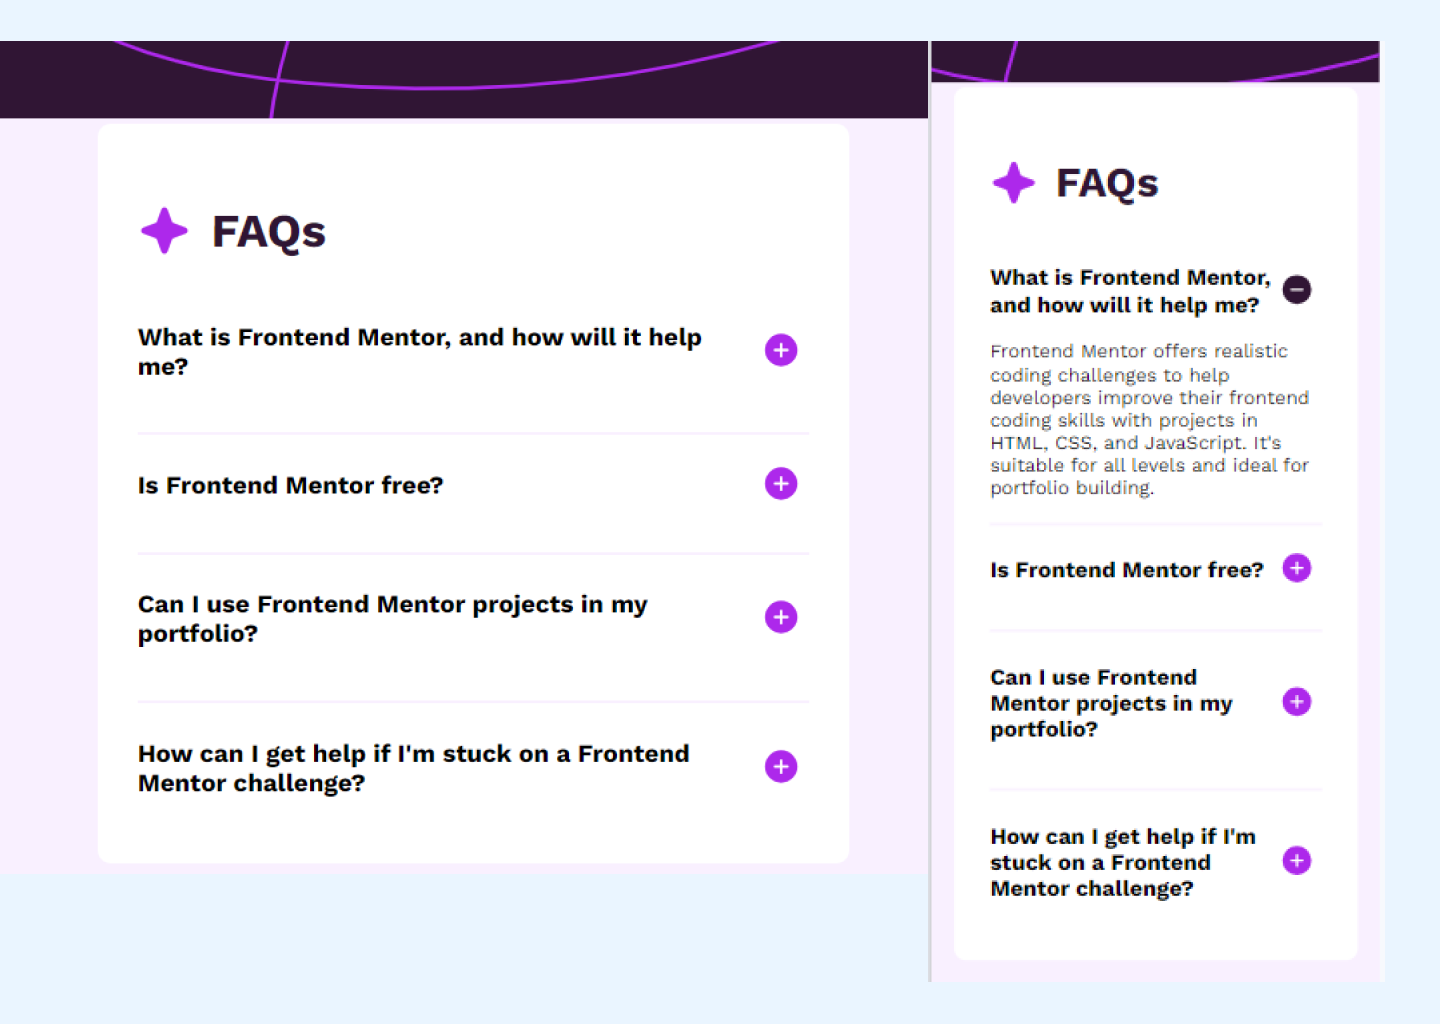
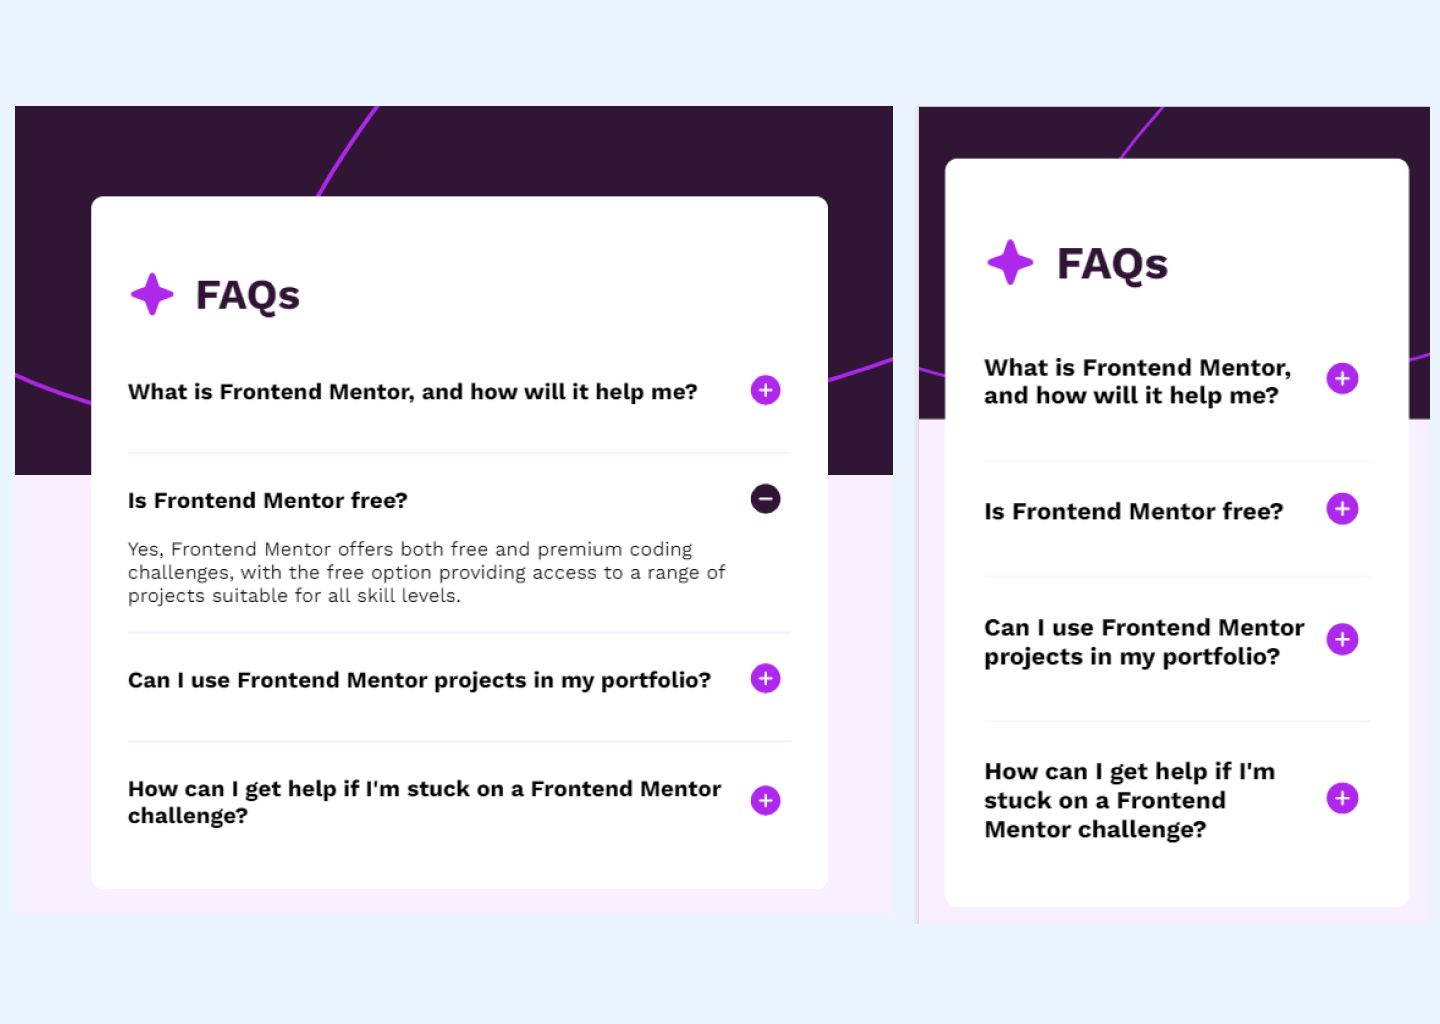
corrections

diff --git a/script.js b/script.js
@@ -1,68 +1,3 @@
-
-/*
-const plusButton = document.querySelectorAll(".plus-btn");
-
-for (let i = 0; i < plusButton.length; i++){
-    const button = plusButton[i];
-    const plusImage = document.querySelector(".plus");
-    let isPlusImage = true;
-
-    button.addEventListener("click", function(){
-        if (isPlusImage){
-            plusImage.src = "./assets/images/icon-minus.svg"
-        } else{
-            plusImage.src = "./assets/images/icon-plus.svg"
-        }
-        isPlusImage = !isPlusImage;
-    });
-    
-};
-
-
-plusButton.forEach(function(button){
-    const plusImage = document.querySelector(".plus");
-    let isPlusImage = true;
-    console.log(plusButton);
-    button.addEventListener("click", function(){
-        if (isPlusImage){
-            plusImage.src = "./assets/images/icon-minus.svg"
-        } else{
-            plusImage.src = "./assets/images/icon-plus.svg"
-        }
-        isPlusImage = !isPlusImage;
-    });
-});
-*/
-
-/*
-const buttonOne = document.getElementById("btn-one");
-const buttonTwo = document.getElementById("btn-two");
-const plusImgOne = document.getElementById("plus-img-1");
-const plusImgTwo = document.getElementById("plus-img-2");
-let isPlusImgOne = true;
-let isPlusImgTwo = true;
-
-
-buttonOne.addEventListener("click", function(){
-    if(isPlusImgOne){
-        plusImgOne.src = "./assets/images/icon-minus.svg";
-    }else{
-        plusImgOne.src = "./assets/images/icon-plus.svg";
-    }
-    isPlusImgOne = !isPlusImgOne;
-});
-
-buttonTwo.addEventListener("click", function(){
-    if(isPlusImgTwo){
-        plusImgTwo.src = "./assets/images/icon-minus.svg";
-    }else{
-        plusImgTwo.src = "./assets/images/icon-plus.svg";
-    }
-    isPlusImgTwo = !isPlusImgTwo;
-});
-
-*/
-
 function switchImage(button, image, content) {
     const plusImg = image.src.includes("icon-plus");
     

diff --git a/assets/style.css b/assets/style.css
@@ -31,7 +31,7 @@ body{
     left: 0;
     z-index: -1;
     width: 100%;
-    height: 35.56vh;
+    height: 30%;
     background-image: url("./images/background-pattern-desktop.svg");
     background-repeat: no-repeat;
     background-size: cover;
@@ -111,6 +111,10 @@ button{
         max-width: 40%;
         margin: auto;
         margin-top: 10%;
+    }
+
+    .bg{
+        height: 40%;   
     }
 
     h1{
